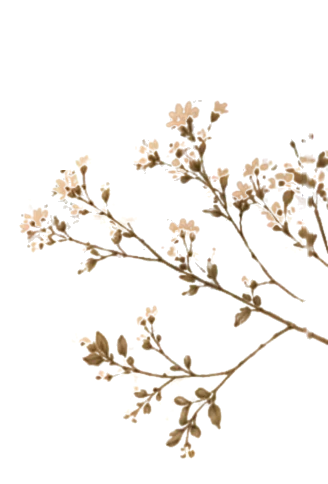
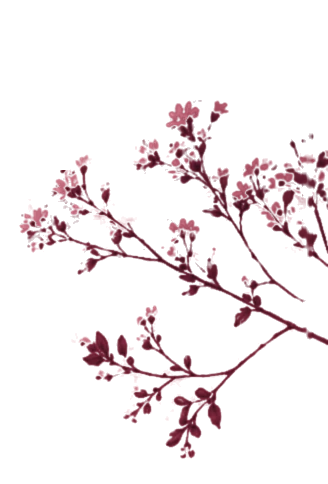
New invite hero and PDF-inspired details

diff --git a/src/invite.css b/src/invite.css
@@ -66,24 +66,24 @@ body.env-lock { overflow: hidden; }
 /* hero: no photo box. Names, illustrations and the couple sit straight on the card */
 .iv-stage {
   --px: 0; --py: 0;
-  position: relative; width: 100%; aspect-ratio: 100 / 134; container-type: inline-size; cursor: pointer;
+  position: relative; width: 100%; aspect-ratio: 100 / 112; container-type: inline-size; cursor: pointer;
   -webkit-user-select: none; user-select: none; -webkit-touch-callout: none; touch-action: pan-y;
 }
 .iv-stage img { display: block; pointer-events: none; }
-.st-branch { position: absolute; top: -2cqw; right: -2cqw; width: 50cqw; height: auto; transform-origin: 100% 0; animation: swayR 7s ease-in-out infinite alternate; opacity: 0.95; }
-.st-leaves { position: absolute; left: -1cqw; bottom: 0; width: 20cqw; height: auto; transform-origin: 0 100%; animation: swayL 8s ease-in-out infinite alternate;
+.st-branch { position: absolute; top: -1cqw; right: -2cqw; width: 40cqw; height: auto; transform-origin: 100% 0; animation: swayR 7s ease-in-out infinite alternate; opacity: 0.95; }
+.st-leaves { position: absolute; left: -1cqw; bottom: 0; width: 15cqw; height: auto; transform-origin: 0 100%; animation: swayL 8s ease-in-out infinite alternate;
   -webkit-mask-image: linear-gradient(180deg, #000 80%, transparent), linear-gradient(90deg, #000 60%, transparent); -webkit-mask-composite: source-in; mask-image: linear-gradient(180deg, #000 80%, transparent), linear-gradient(90deg, #000 60%, transparent); mask-composite: intersect; }
-.st-chhatri { position: absolute; left: 12cqw; bottom: 3cqw; width: 42cqw; height: auto; opacity: 0.9;
+.st-chhatri { position: absolute; left: 9cqw; bottom: 2cqw; width: 34cqw; height: auto; opacity: 0.9;
   -webkit-mask-image: linear-gradient(180deg, #000 78%, transparent); mask-image: linear-gradient(180deg, #000 78%, transparent); }
 @keyframes swayR { from { transform: rotate(-1.4deg); } to { transform: rotate(1.4deg); } }
 @keyframes swayL { from { transform: rotate(1.2deg); } to { transform: rotate(-1.2deg); } }
-.st-names { position: absolute; left: 1cqw; top: 3cqw; display: flex; flex-direction: column; align-items: flex-start; color: var(--olive-d); z-index: 2; text-align: left; }
-.st-a, .st-s { font-size: 17.5cqw; line-height: 1.02; letter-spacing: 0.01em; text-shadow: 0 1px 0 rgba(255, 250, 240, 0.8); }
-.st-w { display: flex; align-items: center; gap: 2.4cqw; font-size: 9cqw; line-height: 1.2; color: var(--terra); letter-spacing: 0.08em; margin: 0.5cqw 0 0.5cqw 3cqw; }
-.st-w i { display: block; width: 8cqw; height: 1px; background: linear-gradient(90deg, var(--gold-l), transparent); }
+.st-names { position: absolute; left: 3cqw; top: 4cqw; display: flex; flex-direction: column; align-items: flex-start; color: var(--olive-d); z-index: 2; text-align: left; }
+.st-a, .st-s { font-size: 14cqw; line-height: 1.05; letter-spacing: 0.01em; text-shadow: 0 1px 0 rgba(255, 250, 240, 0.8); }
+.st-w { display: flex; align-items: center; gap: 2cqw; font-size: 7.5cqw; line-height: 1.2; color: var(--terra); letter-spacing: 0.08em; margin: 0.5cqw 0 0.5cqw 3cqw; }
+.st-w i { display: block; width: 7cqw; height: 1px; background: linear-gradient(90deg, var(--gold-l), transparent); }
 .st-w i:first-child { background: linear-gradient(270deg, var(--gold-l), transparent); }
-.st-heart { width: 38cqw; height: auto; margin: 3cqw 0 0 1cqw; opacity: 0.9; }
-.st-cw { position: absolute; right: -3cqw; bottom: 0; width: 68cqw; aspect-ratio: 676 / 946; pointer-events: none; transform-origin: 100% 100%;
+.st-heart { width: 30cqw; height: auto; margin: 3cqw 0 0 0; opacity: 0.9; }
+.st-cw { position: absolute; right: -1cqw; bottom: 0; width: 56cqw; aspect-ratio: 676 / 946; pointer-events: none; transform-origin: 100% 100%;
   translate: calc(var(--px) * 3px) calc(var(--py) * 1.5px); transition: translate 0.6s ease-out; animation: breathe 9s ease-in-out infinite alternate; z-index: 1; }
 @keyframes breathe { from { transform: scale(1); } to { transform: scale(1.022); } }
 .st-couple { width: 100%; height: 100%; transform-origin: 70% 100%; animation: lean 11s ease-in-out infinite alternate; filter: drop-shadow(0 6px 10px rgba(77, 27, 42, 0.18)); }

diff --git a/src/pages/Invite.jsx b/src/pages/Invite.jsx
@@ -4,6 +4,7 @@ import { SITE } from '../config'
 import { toast } from '../lib/hooks'
 import { supabase } from '../lib/supabase'
 import Icon from '../components/Icon'
+import InstaIcon from '../components/InstaIcon'
 import '../invite.css'
 
 /* ---------------- content ---------------- */
@@ -22,7 +23,7 @@ const DAYS = [
     key: '11', weekday: 'Friday', date: '11 December',
     events: [
       { id: 'haldi', icon: 'flower', title: 'Haldi', when: 'Fri, 11 Dec', part: 'Morning', time: '11:00 AM onwards', img: '/ev-haldi.webp', blurb: 'Sunshine, laughter, turmeric', vibe: 'Wear something that can turn yellow.', tint: '217,144,26' },
-      { id: 'reception', icon: 'glass', title: 'Reception', when: 'Fri, 11 Dec', part: 'Night', blurb: 'Dress up and raise a toast', vibe: 'Your best outfit awaits.', tint: '165,120,46' },
+      { id: 'reception', icon: 'glass', title: 'Reception', when: 'Fri, 11 Dec', part: 'Night', img: '/ev-reception.webp', blurb: 'Dress up and raise a toast', vibe: 'Your best outfit awaits.', tint: '165,120,46' },
       { id: 'pheras', icon: 'flame', title: 'Pheras', when: 'Fri, 11 Dec', part: 'Midnight', img: '/ev-mandap.webp', blurb: 'Seven sacred steps together', vibe: 'Seven steps, one midnight.', tint: '77,27,42' },
     ],
   },
@@ -706,7 +707,7 @@ export default function Invite() {
           <div className="iv-actions">
             <button type="button" className="iv-act solid" onClick={shareInvite}><Icon name="send" size={18} /><span>Share</span></button>
             <Link className="iv-act" to="/events"><Icon name="cal" size={18} /><span>Events</span></Link>
-            <a className="iv-act" href={SITE.instagramUrl} target="_blank" rel="noreferrer"><Icon name="instagram" size={18} /><span>Instagram</span></a>
+            <a className="iv-act" href={SITE.instagramUrl} target="_blank" rel="noreferrer"><InstaIcon size={24} /><span>Instagram</span></a>
           </div>
           <small>Made with love · Jaipur · December</small>
         </footer>

diff --git a/src/components/Layout.jsx b/src/components/Layout.jsx
@@ -3,6 +3,7 @@ import { NavLink, Outlet, useLocation, useNavigate } from 'react-router-dom'
 import { useAuth } from '../lib/auth'
 import { useToastState } from '../lib/hooks'
 import { SITE } from '../config'
+import InstaIcon from './InstaIcon'
 import Icon from './Icon'
 
 function Drawer({ open, onClose }) {
@@ -27,7 +28,7 @@ function Drawer({ open, onClose }) {
         <button className="item" onClick={() => go('/')}><Icon name="mail" /> Invitation</button>
         <button className="item" onClick={() => go('/events')}><Icon name="cal" /> Events</button>
         <button className="item" onClick={() => go('/map')}><Icon name="pin" /> Venue map</button>
-        <a href={SITE.instagramUrl} target="_blank" rel="noreferrer" onClick={onClose}><Icon name="instagram" /> Instagram</a>
+        <a href={SITE.instagramUrl} target="_blank" rel="noreferrer" onClick={onClose}><InstaIcon size={22} /> Instagram</a>
         {canUpload && (
           <>
             <div className="eyebrow" style={{ padding: '16px 14px 4px' }}>Admin</div>
@@ -86,7 +87,7 @@ export default function Layout() {
             <Icon name={icon} stroke={1.8} />
           </NavLink>
         ))}
-        <a href={SITE.instagramUrl} target="_blank" rel="noreferrer" aria-label="Instagram"><Icon name="instagram" stroke={1.8} /></a>
+        <a href={SITE.instagramUrl} target="_blank" rel="noreferrer" aria-label="Instagram"><InstaIcon size={30} /></a>
       </nav>
       <Drawer open={open} onClose={() => setOpen(false)} />
       {toast && <div className="toast" role="status">{toast}</div>}

diff --git a/src/components/InstaIcon.jsx b/src/components/InstaIcon.jsx
@@ -1,0 +1,19 @@
+// the Instagram logo: gradient rounded square with the white camera glyph
+let n = 0
+export default function InstaIcon({ size = 26 }) {
+  const id = `ig${(n = (n + 1) % 1000)}`
+  return (
+    <svg viewBox="0 0 24 24" width={size} height={size} aria-hidden="true" style={{ display: 'block', flexShrink: 0 }}>
+      <defs>
+        <radialGradient id={id} cx="0.3" cy="1.05" r="1.25">
+          <stop offset="0" stopColor="#fdcb52" /><stop offset="0.25" stopColor="#fa7e1e" />
+          <stop offset="0.5" stopColor="#d62976" /><stop offset="0.78" stopColor="#962fbf" /><stop offset="1" stopColor="#4f5bd5" />
+        </radialGradient>
+      </defs>
+      <rect x="1" y="1" width="22" height="22" rx="6.2" fill={`url(#${id})`} />
+      <rect x="5" y="5" width="14" height="14" rx="4.3" fill="none" stroke="#fff" strokeWidth="1.7" />
+      <circle cx="12" cy="12" r="3.3" fill="none" stroke="#fff" strokeWidth="1.7" />
+      <circle cx="16.1" cy="7.9" r="1" fill="#fff" />
+    </svg>
+  )
+}

diff --git a/src/styles.css b/src/styles.css
@@ -172,7 +172,7 @@ select.input { appearance: none; }
 .ecard .img { position: relative; height: 176px; background-size: cover; background-position: center; }
 .tchip { position: absolute; left: 12px; bottom: 12px; display: inline-flex; align-items: center; gap: 6px; padding: 7px 12px; border-radius: 14px; font-size: 13px; font-weight: 700; color: var(--ink); }
 .ecard .meta { padding: 14px 18px 16px; display: flex; flex-direction: column; gap: 4px; }
-.ecard .name { font-size: 22px; font-weight: 700; letter-spacing: -0.02em; }
+.ecard .name { font-size: 18px; font-weight: 700; letter-spacing: -0.02em; }
 .ecard .add { position: absolute; right: 12px; top: 128px; }
 .ecard .edit { position: absolute; right: 12px; top: 12px; }
 
